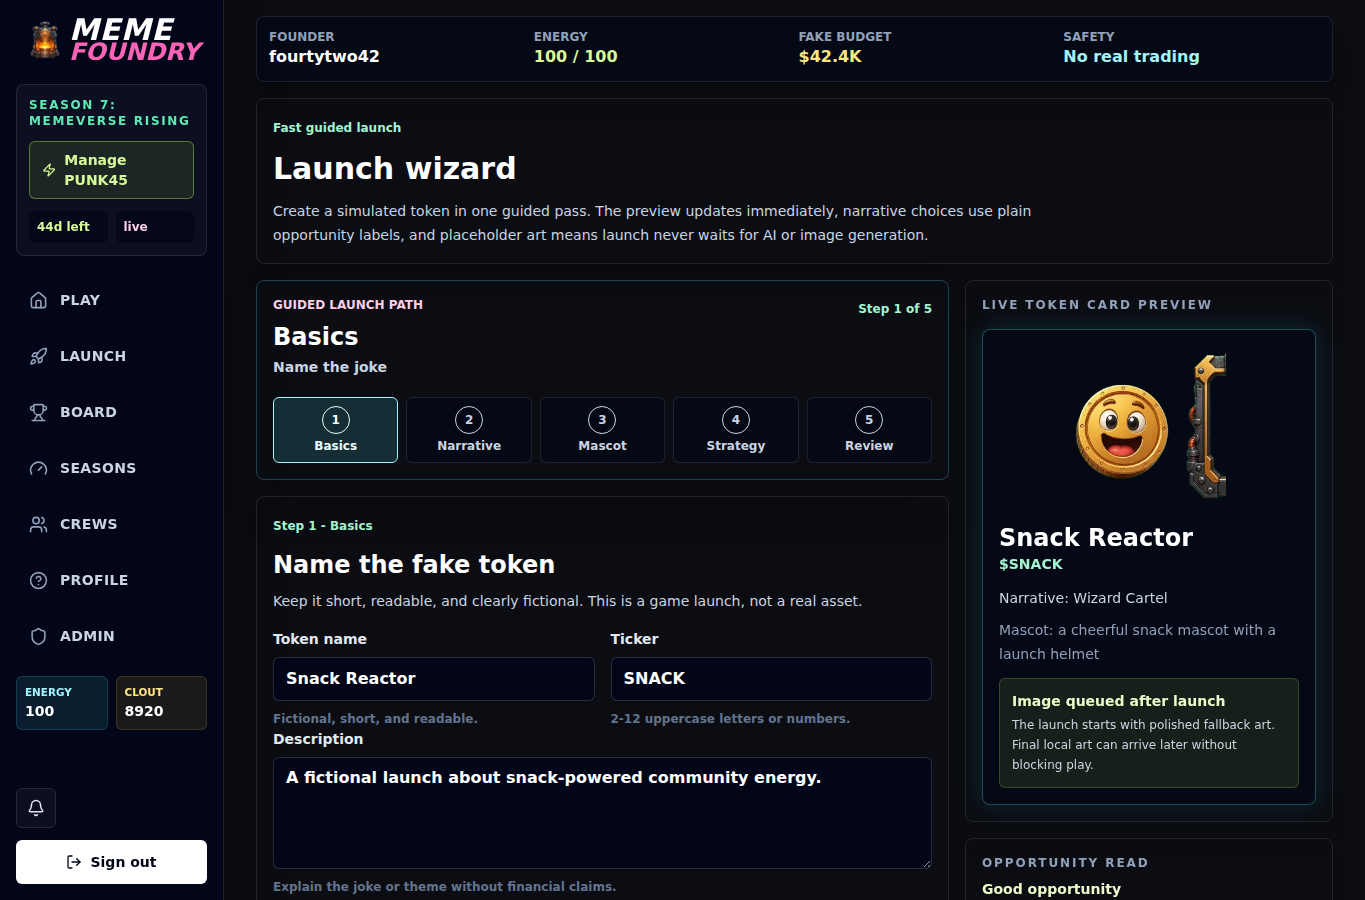
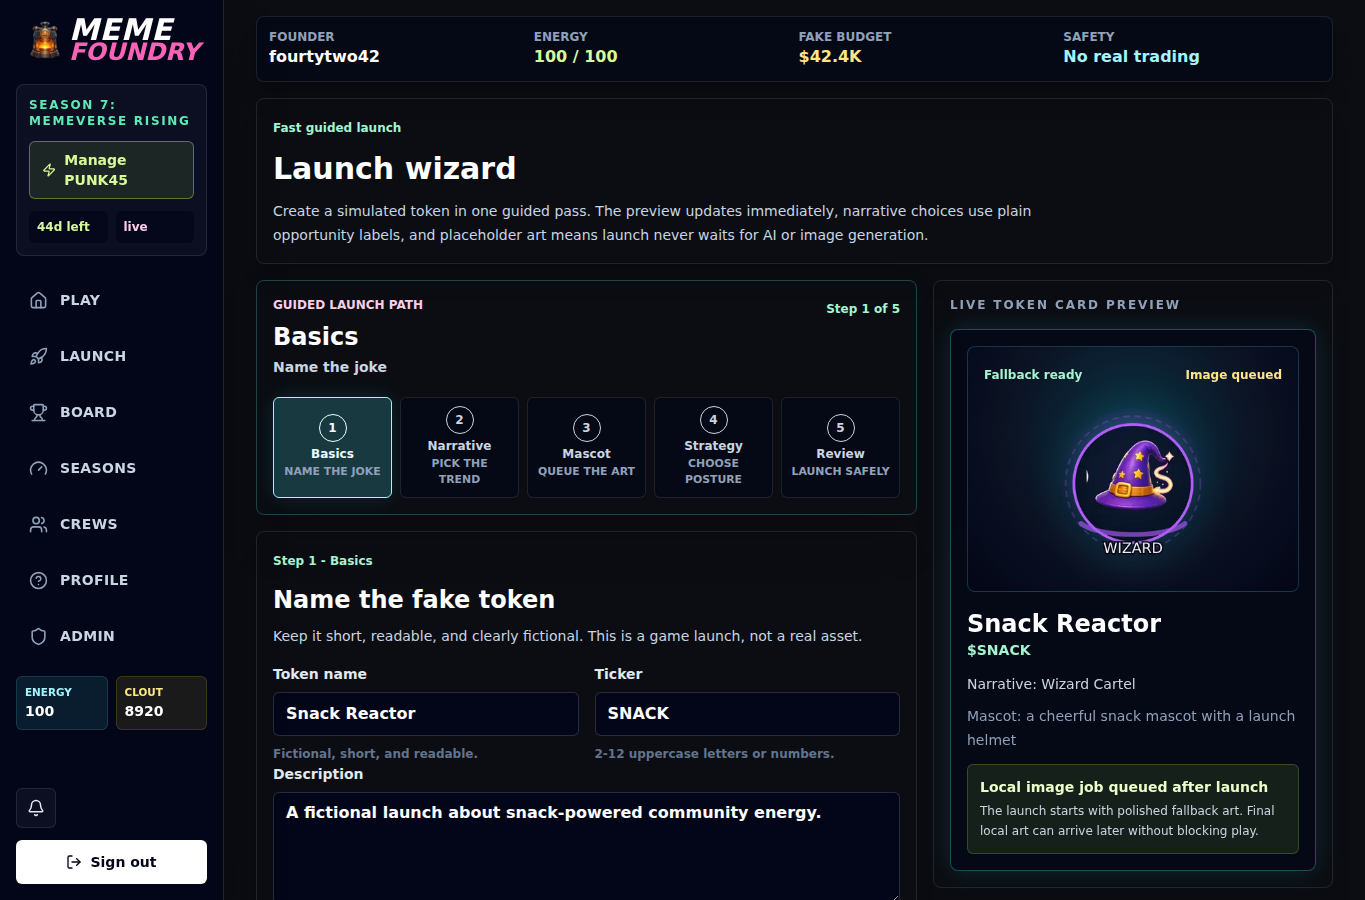
Align launch wizard visuals

diff --git a/apps/web/src/components/launch/launch-wizard-form.tsx b/apps/web/src/components/launch/launch-wizard-form.tsx
@@ -3,7 +3,7 @@
 import Image from "next/image";
 import { useActionState, useMemo, useState } from "react";
 import { createLaunch } from "@/app/launch/new/actions";
-import { narrativeImage } from "@/lib/assets";
+import { narrativeImage, tokenVariantImage } from "@/lib/assets";
 import {
   Badge,
   Button,
@@ -126,7 +126,7 @@ export function LaunchWizardForm({
   return (
     <form
       action={action}
-      className="grid gap-4 lg:grid-cols-[minmax(0,1fr)_23rem]"
+      className="grid gap-4 lg:grid-cols-[minmax(0,1fr)_25rem]"
       data-testid="launch-wizard-form"
       noValidate
     >
@@ -150,9 +150,9 @@ export function LaunchWizardForm({
             {steps.map((step, index) => (
               <button
                 aria-current={activeStep === index ? "step" : undefined}
-                className={`rounded-md border p-2 text-center transition ${
+                className={`grid min-h-16 min-w-0 content-center rounded-md border p-1.5 text-center transition sm:min-h-20 sm:p-2 ${
                   activeStep === index
-                    ? "border-cyan-200 bg-cyan-300/15 text-cyan-50"
+                    ? "border-cyan-200 bg-cyan-300/20 text-cyan-50 shadow-[0_0_22px_rgba(34,211,238,0.14)]"
                     : index < activeStep
                       ? "border-lime-300/30 bg-lime-300/10 text-lime-100"
                       : "border-white/10 bg-slate-950/55 text-slate-300 hover:bg-white/10"
@@ -164,8 +164,11 @@ export function LaunchWizardForm({
                 <span className="mx-auto grid size-7 place-items-center rounded-full border border-current text-xs font-black">
                   {index + 1}
                 </span>
-                <span className="mt-1 hidden text-xs font-black sm:block">
+                <span className="mt-1 break-words text-[0.66rem] font-black leading-3 sm:text-xs sm:leading-4">
                   {step.label}
+                </span>
+                <span className="mt-0.5 hidden text-[0.68rem] font-bold uppercase text-slate-400 sm:block">
+                  {step.eyebrow}
                 </span>
                 <span className="sr-only">{stepStatus(index, activeStep)}</span>
               </button>
@@ -239,10 +242,10 @@ export function LaunchWizardForm({
               attention, saturation means competition, and fatigue means the
               crowd may be tired of it.
             </p>
-            <div className="mt-4 grid gap-3 sm:grid-cols-2">
+            <div className="mt-4 grid gap-3 xl:grid-cols-2">
               {narratives.map((narrative) => (
                 <label
-                  className="grid cursor-pointer gap-3 overflow-hidden rounded-md border border-white/10 bg-slate-950/50 p-3 has-[:checked]:border-lime-300 has-[:checked]:bg-lime-300/10"
+                  className="grid cursor-pointer gap-3 overflow-hidden rounded-md border border-white/10 bg-slate-950/50 p-3 transition hover:border-lime-300/40 has-[:checked]:border-lime-300 has-[:checked]:bg-lime-300/10 has-[:checked]:shadow-[0_0_24px_rgba(190,242,100,0.14)]"
                   key={narrative.slug}
                 >
                   <input
@@ -253,13 +256,13 @@ export function LaunchWizardForm({
                     type="radio"
                     value={narrative.slug}
                   />
-                  <div className="grid grid-cols-[4.5rem_minmax(0,1fr)] gap-3">
+                  <div className="grid gap-3 sm:grid-cols-[7rem_minmax(0,1fr)]">
                     <Image
                       alt={`${narrative.name} narrative art`}
-                      className="size-18 rounded-md border border-white/10 bg-slate-950/70 object-contain p-1"
-                      height={72}
+                      className="aspect-square w-full rounded-md border border-white/10 bg-slate-950/70 object-contain p-2"
+                      height={112}
                       src={narrativeImage(narrative.name ?? narrative.slug)}
-                      width={72}
+                      width={112}
                     />
                     <div className="min-w-0">
                       <span className="break-words font-black text-white">
@@ -267,6 +270,9 @@ export function LaunchWizardForm({
                       </span>
                       <span className="mt-1 block text-sm font-bold text-lime-200">
                         {opportunityLabel(narrative)}
+                      </span>
+                      <span className="mt-2 inline-flex rounded-full border border-white/10 bg-white/[0.04] px-2 py-1 text-xs font-black text-slate-300">
+                        Heat {narrative.heat} / Crowd {narrative.saturation}
                       </span>
                     </div>
                   </div>
@@ -507,14 +513,20 @@ function PreviewCard({
 }) {
   return (
     <div className="mt-4 overflow-hidden rounded-lg border border-cyan-300/30 bg-slate-950/60 p-4 shadow-[0_0_26px_rgba(34,211,238,0.14)]">
-      <Image
-        alt="Transparent default token placeholder"
-        className="mx-auto size-40"
-        height={160}
-        priority
-        src="/assets/game/tokens/default-token-mascot.png"
-        width={160}
-      />
+      <div className="relative rounded-lg border border-cyan-300/20 bg-[radial-gradient(circle_at_50%_35%,rgba(34,211,238,0.22),rgba(15,23,42,0.72)_55%,rgba(2,6,23,0.95))] p-4">
+        <div className="mb-3 flex flex-wrap items-center justify-between gap-2">
+          <Badge tone="good">Fallback ready</Badge>
+          <Badge tone="warn">Image queued</Badge>
+        </div>
+        <Image
+          alt={`${name || "Token"} preview art`}
+          className="mx-auto size-44 object-contain drop-shadow-[0_0_24px_rgba(34,211,238,0.24)]"
+          height={176}
+          priority
+          src={tokenVariantImage(narrative?.name)}
+          width={176}
+        />
+      </div>
       <h2 className="mt-4 break-words text-2xl font-black text-white">
         {name || "Token name"}
       </h2>
@@ -529,7 +541,7 @@ function PreviewCard({
       </p>
       <div className="mt-3 rounded-md border border-lime-300/20 bg-lime-300/10 p-3">
         <p className="text-sm font-black text-lime-100">
-          Image queued after launch
+          Local image job queued after launch
         </p>
         <p className="mt-1 text-xs leading-5 text-slate-300">
           The launch starts with polished fallback art. Final local art can

diff --git a/docs/evidence/PRD_SCREEN_ALIGNMENT_STAGE5_LAUNCH_WIZARD.md b/docs/evidence/PRD_SCREEN_ALIGNMENT_STAGE5_LAUNCH_WIZARD.md
@@ -1,0 +1,49 @@
+# PRD Screen Alignment Stage 5 Launch Wizard
+
+Date: 2026-05-13
+
+## Scope
+
+Stage 5 aligned `/launch/new` toward `PRD/reference_screens/02_launch_wizard.png`.
+
+## Changes
+
+- Made the wizard stepper more prominent while keeping it contained on mobile.
+- Enlarged the Narrative step cards with image-forward layouts, stronger selected state, opportunity labels, and compact heat/crowd chips.
+- Updated the live preview card to use selected narrative token-card variants instead of the generic mascot.
+- Added visible preview badges for fallback art and queued local image generation.
+- Kept stronger back/continue/review controls and preserved the existing guided step flow.
+
+## Browser-Use Verification
+
+Browser-use was run against `http://192.168.50.209/launch/new`.
+
+Checks completed:
+
+- Initial route showed `Launch wizard`, `Guided launch path`, all five step labels, live token preview, fallback badge, and image queued badge.
+- Browser-use stepped through Basics, Narrative, Mascot, Strategy, and Review using the live UI.
+- Narrative step showed large narrative images and opportunity/readability labels.
+- Preview rendered token-card variant art from the selected narrative.
+- Review step became visible without console errors.
+- Console errors: `0`.
+
+## Automated Verification
+
+Passed:
+
+```bash
+pnpm --filter @meme-foundry/web typecheck
+pnpm --filter @meme-foundry/web build
+curl -fsS http://192.168.50.209/health
+PLAYWRIGHT_BASE_URL=http://192.168.50.209 pnpm test:visual-audit
+```
+
+The first visual-audit run caught mobile horizontal overflow from the wider stepper. The stepper was corrected and the audit passed across all major routes on mobile, tablet, and desktop.
+
+## End Gate Result
+
+Stage 5 is complete.
+
+- Narrative cards now match the PRD direction more closely.
+- Preview updates remain functional and image status is visible.
+- The wizard remains usable across mobile, tablet, and desktop without overflow.
